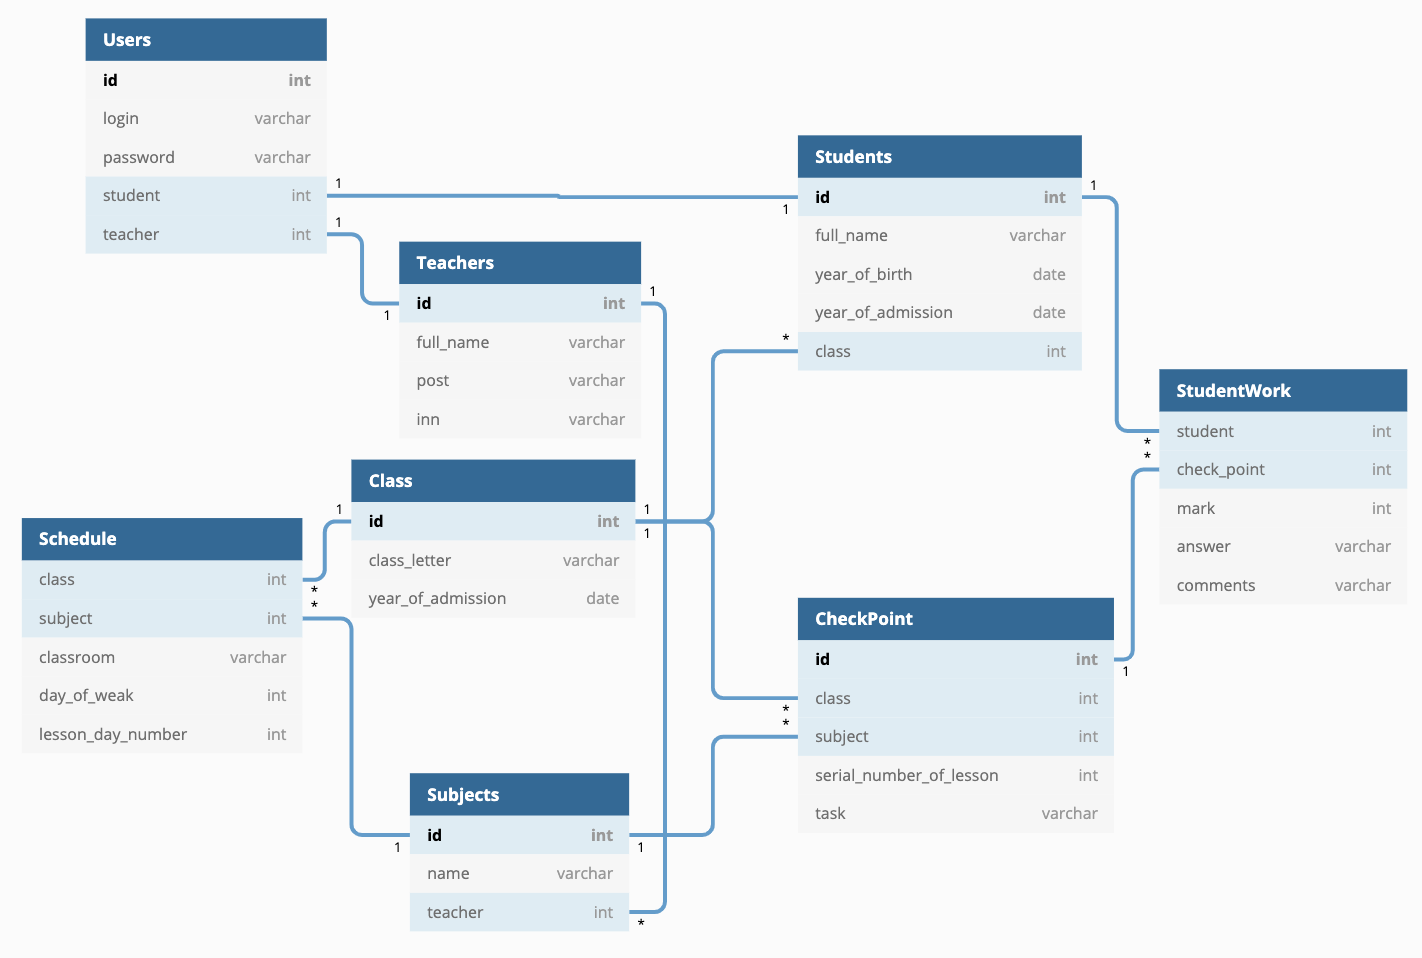
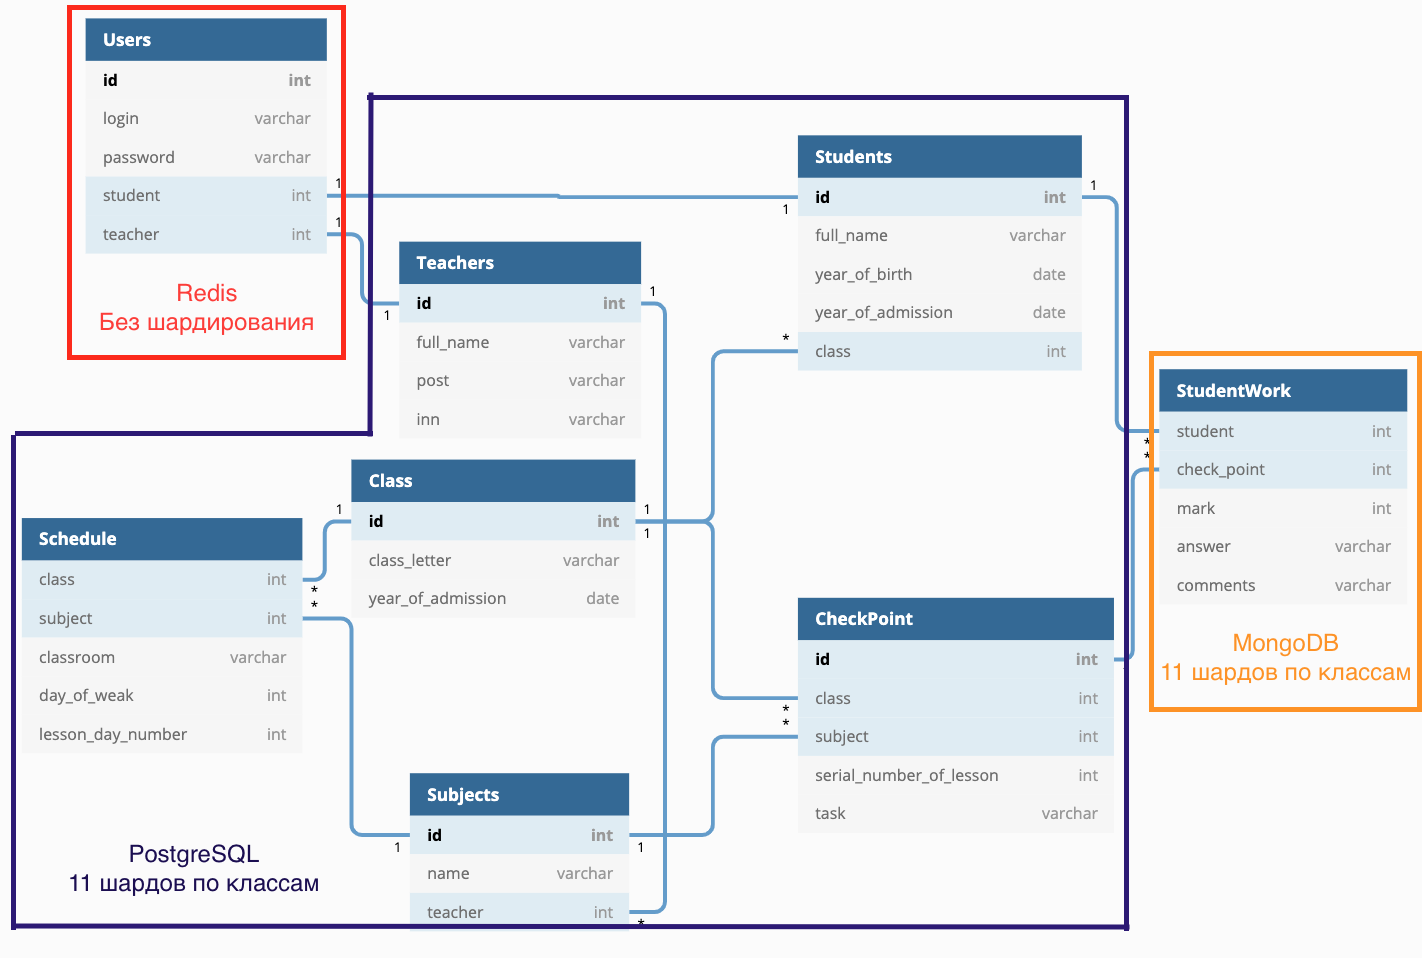
Расчет стоимости в процессе

Changed region(s): [[0.0, 0.0, 1.0, 0.9687]]

diff --git a/README.md b/README.md
@@ -39,9 +39,9 @@
 2) Такие сущности как: преподаватель, ученик, класс и контрольная точка практически не подвержены изменениям и создаются единыжды перед началом учебного года. Это означает, что основная операция, выполняемая над ними - чтение. 
 3) Сущность ответа ученика потенциальна подвергнута частным изменениям.
 
-Рассмотрим каждый пункт отдельно:
-
-**1** Реализуя сессия пользователя по технологии JWT, можно избавиться от необходимости верифицировать сессию пользователя, проверяя ее id в базе данных. Таким образом пользователю достаточно единыжды авторизоваться. В шардировании данной базы нет необходимости, достаточно репликацию master-slave, так как основная нагрузка будет на чтение.
+####Рассмотрим каждый пункт отдельно:
+####1
+Реализуя сессия пользователя по технологии JWT, можно избавиться от необходимости верифицировать сессию пользователя, проверяя ее id в базе данных. Таким образом пользователю достаточно единыжды авторизоваться. В шардировании данной базы нет необходимости, достаточно репликацию master-slave, так как основная нагрузка будет на чтение.
 Предположим, что авторизация выполняется раз в месяц, тогда при количестве пользователей в месяц `= 47` млн, получим средний qps
 
 `47 000 000 / (30 * 24 * 60 * 60) = 18` qps
@@ -65,13 +65,13 @@
 Следовательно на 47 млн активных пользователей понадобится 8,5 Гб.
 С учетом того, что ежегодный прирост пользователей `= 47 / 11 = 4.3` млн, минимального объема памяти будет достаточно.
 Под задачи хранения данных подойдет noSQL база данных **Redis** - хранящая базу в оперативной память в формате ключ-значение, переодически выполняя операции записи на диск. Потенциально Redis может выдержать многократные (10-ти кратные) пиковые нагрузки в [50 тыс. rps](https://skipperkongen.dk/2013/08/27/how-many-requests-per-second-can-i-get-out-of-redis/).
-
-**2** Большое количество связей, в том числе связи много-ко-многим, и то, что изменения данных практически не производится, поддталкивает к использованию SQL базы данных. Кроме того, есть возможность шардирование студентов по годам, что позволит упростить работу индексов. Поэтому выбор сделан в сторону **PostgreSQL**. 
+####2
+ Большое количество связей, в том числе связи много-ко-многим, и то, что изменения данных практически не производится, поддталкивает к использованию SQL базы данных. Кроме того, есть возможность шардирование студентов по годам, что позволит распределить нагрузку на разные машины. Поэтому выбор сделан в сторону **PostgreSQL**. 
 [Согласно бенчмаркам](https://habr.com/ru/company/drtariff/blog/383295/)  ssd-диски позволят добится 20 тыс. qps с одной машины, что дает 2-х кратный запас к rps, определенный в пункте "Выбор планируемой нагрузки".
+####3
+В среднем, ученик изучает 5 предметов в день по расписанию, а значит может оставлять ответы на около 5 заданий в день и 5 исправлений, преподаватель оставлять 1 комментарий и дважды проверять работу. Что в сумме дает 10 put запросов ответа на задание от ученика, 10 get запросов ответа на задание от преподавателя. Само задание, хранимое в pdf, может занимать около 5 Мб. Что суммарно дает:
 
-**3** В среднем, ученик изучает 5 предметов в день по расписанию, а значит может оставлять ответы на около 5 заданий в день и 5 исправлений, преподаватель оставлять 1 комментарий и дважды проверять работу. Что в сумме дает 10 put запросов ответа на задание от ученика, 10 get запросов ответа на задание от преподавателя. Само задание, хранимое в pdf, может занимать около 5 Мб. Что суммарно дает:
-
-`(10 + 10) * 20 000 000 * 5 = 100` Гб трафика. 
+`5 * 20 000 000 * 5 = 500` Гб в день, что за 125 учебных дней в полугодии даст `65 000` Тб данных для хранения. Ученические работы хранятся в течении полугодий, поэтому ежегодный прирост не ожидается.
 
 Для обработки такого количество файлов хорошо подходит s3 хранилище, которое позволит снять с сервиса нагрузку на получение/хранение ответа на задание. Как один из вариантов - **Mail S3**
 
@@ -94,7 +94,6 @@
 Исходя из этого, выбор пал на **MongoDB**, которая в отличие от Redis поддерживает вторичные ключи и смешанные индексы, поддерживает репликацию стандартными инструментами и обладает высокими показателями [доступности](http://www.mongodb.org/display/DOCS/Replica+Sets). В силу того, что данная база будет иметь дело с большим количеством данных, имеет смысл настроить шардинг. Как и в случае с postgres шардинг можно выполнить по времени, например по учебным полугодиям. Сами данные, в сочетании с S3 хранилищем помещаются в  16 Мб ограничение.
 
 ## Выбор прочих технологий
-#### Языки программирования
 Для написания бэкэнда выбран Golang, в его пользу говорят следующие плюсы:
 - высокая скорость разработки,
 - производительность, [сравнимая](https://benchmarksgame-team.pages.debian.net/benchmarksgame/fastest/go-gpp.html) с c++,
@@ -147,31 +146,66 @@
 - Оценить задание - 500 rps
 
 Исходя из этого, расчитаем средний rps, с которым надо справится одному ядру каждого микросервиса и исходя из пиковых значений rps, оценим, сколько понадобится машин и ядер.
+Для расчета серверов для БД помимо этого учитывалось количество шардов.
+
+Пиковый rps на узлы бэкэнда с двукратным запасом:
+
+Узел|rps
+---|---
+[Авторизация/регистрация](#1)| 30 000
+[Расписание](#2)| 30 000
+[Сданные работы](#3)| 10 000
+
 Узел|Cores|RAM| Количество
 ---|---|---|---
-[БД 1](#1)|16 |128 |3
-[БД 2](#2)|16 |128 |8
-[БД 3](#3)|64 |512 |20
-[Авторизация/регистрация](#1)|32 |64 |4
-[Расписание](#2)|32 |64 |8
-[Сданные работы](#3)|64 |128 |4
+[БД 1](#1)|16 |128 | 1 master, 2 slave = 3
+[БД 2](#2)|16 |128 | 11 master, 2*11 slave = 33
+[БД 3](#3)|32 |256 | 11 master, 2*11 slave = 33
+[Авторизация/регистрация](#1)|32 |64 |8
+[Расписание](#2)|32 |128 |8
+[Сданные работы](#3)|32 |128 |4
 Фронтенд|32 |64 |4
 
 Расчет нагрузки на фронтенд выполнялся следующим образом: пусть фронт весит 5 Мб, тогда при пиковой нагрузке в 15 тыс. rps, с двухкратным запасом, получим трафик в 150 Гб/сек. Два сервера со 100GbE способны выдержать такую нагрузку, но возьмем запас, на случай роста или на случай неполадок с сетью.
 
-В каждом сервере жесткие диски SSD объеденены в RAID60, что увеличит скорость записи и чтения, и повысит устойчивость к отказам. Данные не будут утеряны даже при отказе 2 дисков в каждом RAID6 массиве, что важно при использовании SSD дисков имеющих ограниченный ресурс на запись.
+Трафик на бекенд серверах не привышает нескольких Гб/сек. и не является бутылочным горлышком для системы.
 
+<a name="disk"><h4>Расчет дисков</h4></a>  
+В каждом сервере жесткие диски SSD, и повысит устойчивость к отказам.
+Произведем расчет жестких дисков баз данных:
+
+Узел|Эффективный объем (Гб)| Объем на одном шарде | Диски| Модель| Стоимость (руб./шт.)
+---|---|---|---|---|---
+[БД 1](#1)| 64|64| 2*2 диска по 32 Гб в RAID10|[7N47A00129]| 6 000
+[БД 2](#2)| 4096|400| 2*2 диска по 200 Гб в RAID10|[400-AWHC]| 11 000
+[БД 3](#3)| 82 000|8 200| 2*4 диска по 1 Тб в RAID10|[400-AJQD]| 21 500
+
+[7N47A00129]: https://www.onlinetrade.ru/catalogue/servernye_zhestkie_diski_i_ssd-c4239/lenovo/nakopitel_ssd_lenovo_m.2_1x32gb_sata_7n47a00129-1413727.html
+[400-AWHC]: https://www.onlinetrade.ru/catalogue/servernye_zhestkie_diski_i_ssd-c4239/dell/nakopitel_ssd_dell_2.5_1x240gb_sata_hot_swapp_400_awhc-2014001.html
+[400-AJQD]: https://www.onlinetrade.ru/catalogue/servernye_zhestkie_diski_i_ssd-c4239/dell/zhestkiy_disk_dell_2.5_1x1.2tb_sas_10k_hot_swapp_400_ajqd-2066353.html 
 ## Выбор хостинга и расположения серверов
 Для хостинга выбрано cloud.croc.ru. Расположение серверов ограничено расположением датацентров крока в России - только Москва.
 
-Для хранения файлов работ подойдет тариф обеспечивающий Infrequent Access с доступом в рамках 1 миллисекунды
+Для хранения файлов работ подойдет тариф в S3 подойдет хранилище icebox.
 
 ## Схема балансировки нагрузки 
-В качестве балансера будет использоваться nginx. Так как предполагается использование протокола HTTP/2, выбрана L7 балансировка. Терминацию SSL выполняет nginx. Алгоритм балансировки Round Robin.
+В качестве балансера будет использоваться nginx. Так как предполагается использование протокола HTTP/2, выбрана L7 балансировка. Терминацию SSL выполняет nginx. Балансировка на уровне DNS выполняется алгоритмом Round Robin с ручной уборкой неотвечающих ip адресов.
 
 ## Обеспечение отказоустойчивости
 Для обеспечения отказоустойчивости каждый сервер БД имеет master-slave репликацию, по 2 слэйва на один мастер. 
 
-Для сервиса авторизации и расписания достаточно ежегодных дифференциальных бекапов, так как данные в них меняются не чаще раза в год. Для сервиса с ученическими работами необходима и достаточны еженедельные дифференциальные бекапы. Все бекапы выполняются на магнитную ленту.
-
 Для мониторинга системы будут использованы Grafana + Prometeus.
+
+## Расчет стоимости
+#### S3
+![стоимость s3](src/s3_price.png)
+
+Стоимость дисков перечислена [выше](#disk). В итоге общую стоимость в `7.2` млн. руб.
+
+Расчитаем стоимость серверов:
+Узел|Модель| Стоимость (руб./шт.)
+---|---|---
+[Авторизация/регистрация](#1)| 30 000
+[Расписание](#2)| 30 000
+[Сданные работы](#3)| 10 000
+
